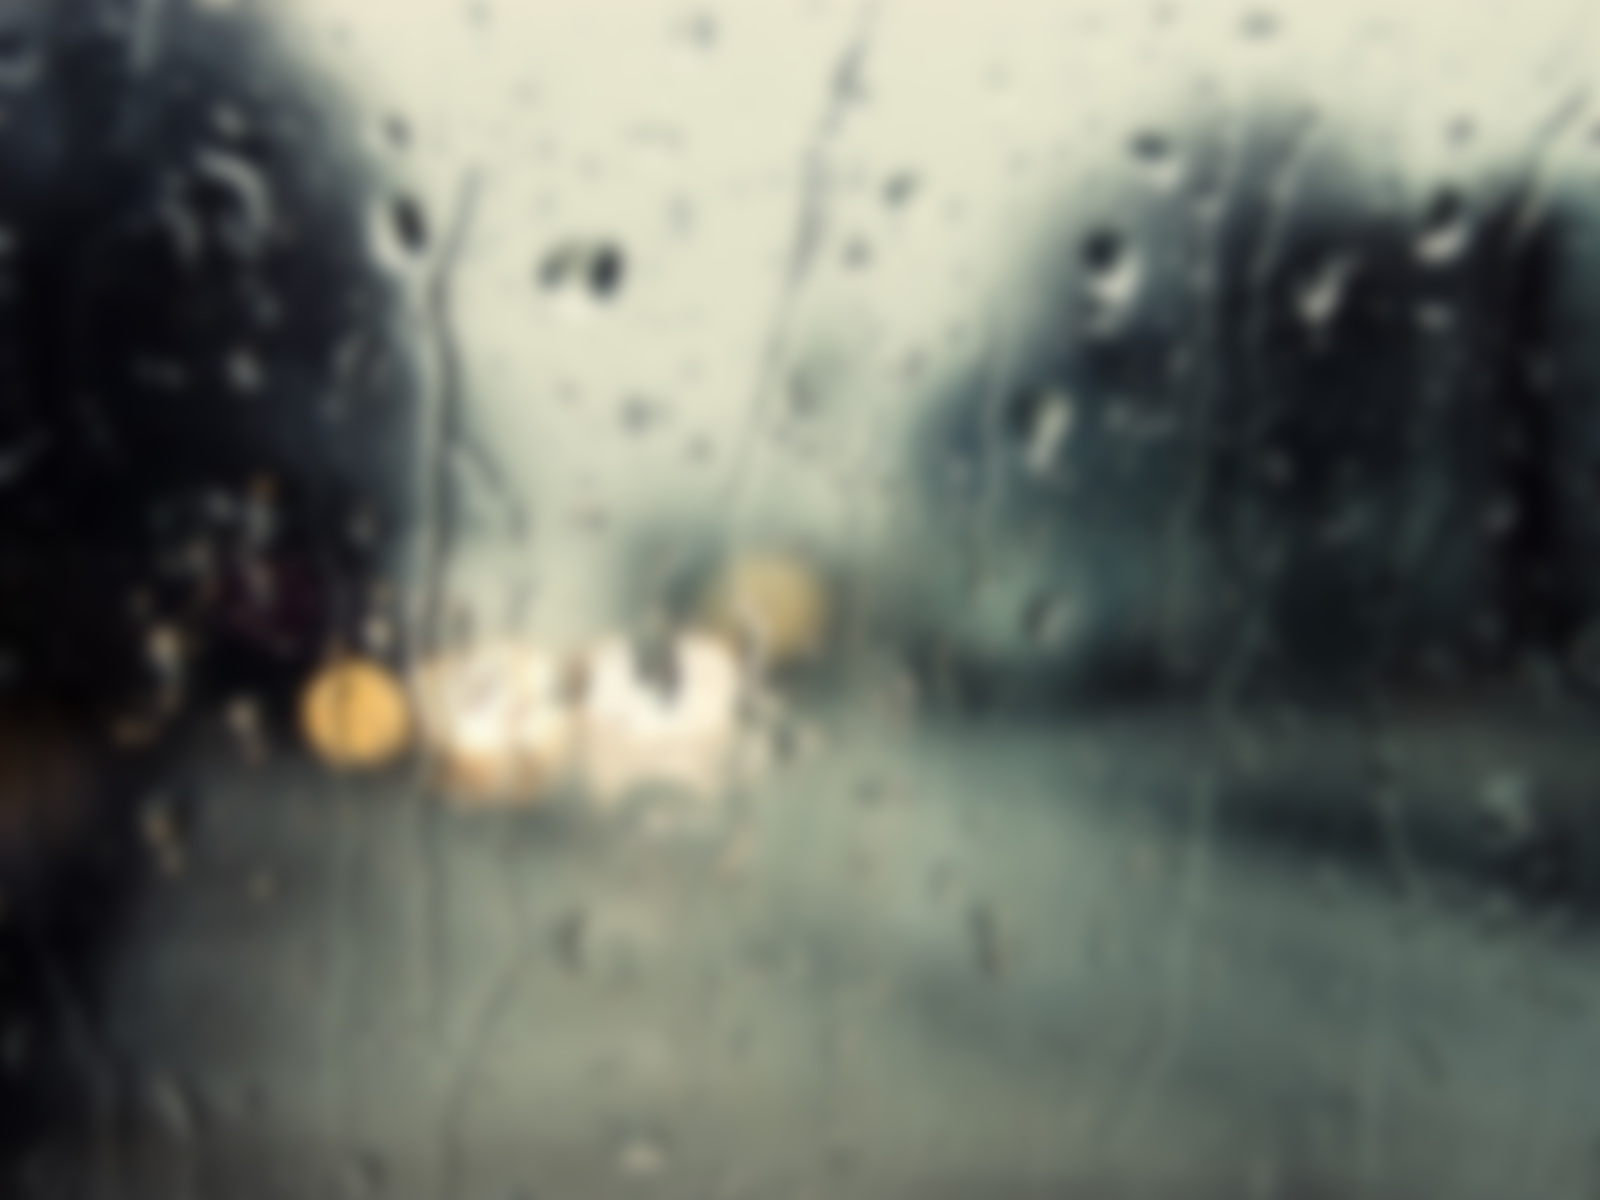
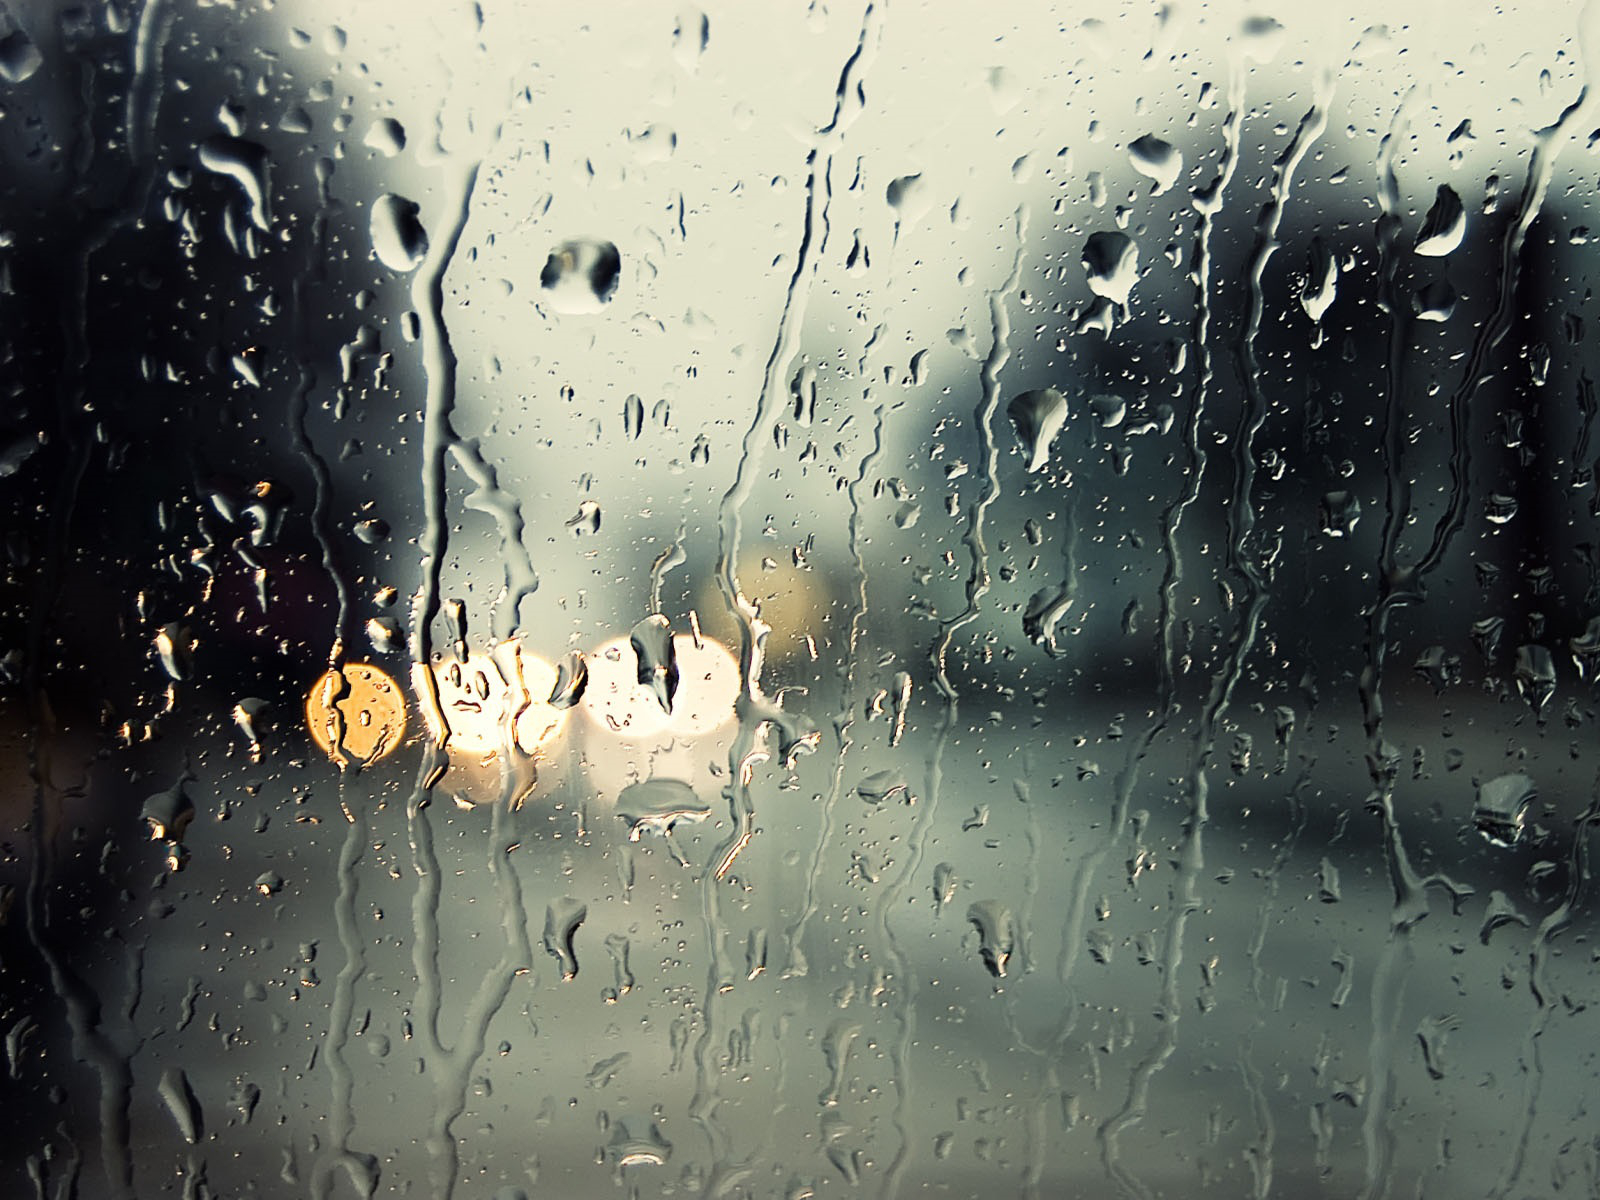
background image stuff

diff --git a/public/css/style.less b/public/css/style.less
@@ -36,7 +36,7 @@ body {
 }
 
 #background-wrapper {
-  background: url("/img/home-background.png");
+  background: url("/img/weather/clear.jpg");
   position: absolute;
   top:60px;
   bottom:0px;
